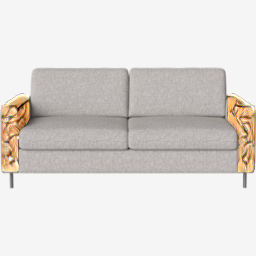
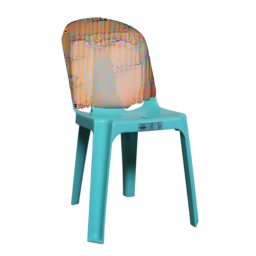
finalized region style transfer.

diff --git a/style_transfer.py b/style_transfer.py
@@ -12,15 +12,15 @@ def get_optimizer(output_img):
     return optim
 
 
+style_layers_default = ['conv_1', 'conv_2', 'conv_3', 'conv_4', 'conv_5']
 
-
-def run_style_transfer(cnn,normalization_mean, normalization_std,
+def style_transfer_gatys(cnn,normalization_mean, normalization_std,
                     content_img, style_img, output_img, EPOCHS=500,
-                    style_weight=1e6,content_weight=1,mask=None):
+                    style_weight=1e6,content_weight=1,mask=None,style_layers=style_layers_default):
     
     model, style_losses, content_losses = losses.get_model_and_losses(cnn,normalization_mean,
                                                                     normalization_std,
-                                                                    style_img,content_img,mask=mask)
+                                                                    style_img,content_img,mask=mask,style_layers=style_layers)
 
     optimizer = get_optimizer(output_img)
 
@@ -56,50 +56,4 @@ def run_style_transfer(cnn,normalization_mean, normalization_std,
     output_img.data.clamp_(0,1)
     return output_img
 
-
-# content_file = "./data/images/chairs/generic/armchair.jpeg"
-# style_file = "./data/images/chairs/cobonpue/chair-2.jpg"
-
-content_file = "./data/images/chairs/generic/armchair.jpeg"
-style_file = "./data/images/chairs/cobonpue/chair-2.jpg"
-
-IMSIZE = 256
-
-if __name__ == "__main__":
-    print("Main Driver")
-
-    # Load content image (C)
-    content_img = utils.load_image(content_file)
-    utils.show_image(content_img)
-
-    device = utils.setup_device(use_gpu = True)
-    
-    # Setup model. Use pretrained VGG-19
-    model = models.vgg19(pretrained=True).features.to(device).eval()
-
-    # Preprocess C
-
-    content = utils.image_to_tensor(content_img,IMSIZE,device=device)
-    print("Content img dimensions: ", content.size())
-    
-    # Load style image (S)
-    style_img = utils.load_image(style_file)
-    # utils.show_image(style_img)
-
-    # Preprocess S
-    style = utils.image_to_tensor(style_img,IMSIZE, device=device)
-    print("Style img dimensions: ", style.size())
-
-    # setup normalization mean and std
-    normalization_mean = torch.tensor([0.485,0.456,0.406]).to(device)
-    normalization_std = torch.tensor([0.229,0.224,0.225]).to(device)
-
-    initial = content.clone()
-
-    output = run_style_transfer(model,normalization_mean,normalization_std,
-                                content,style,initial,EPOCHS=2000)
-
-    output_img = utils.tensor_to_image(output)
-    
-    utils.show_image(output_img)
-    output_img.save('outputs/stylized_output.png')
+# def region_style_transfer(content)

diff --git a/driver.py b/driver.py
@@ -29,15 +29,12 @@ datapath = './data'
 datatype='images'
 furniture='chairs'
 
-generic='generic/sofa-2.jpeg'
+generic='generic/chair-1.jpg'
+# generic ='6.jpg'
 
 style='selected_styles'
 
-des_furn = [
-    'cobonpue/chair-2.jpg',
-    'budji_layug/chair-1.jpg',
-    'vito_selma/chair-3.jpg'
-]
+
 
 if __name__ == "__main__":
     print("Main Driver")
@@ -58,7 +55,8 @@ if __name__ == "__main__":
         _,mask_path = seg.segment_points(save_path,device=device)
         mask_img = utils.load_image(mask_path)
         mask = utils.image_to_tensor(mask_img,image_size=IMSIZE).to(device)
-        
+        # mask = mask.expand(-1,3,-1,-1)
+
         _,style_mask_path = seg.segment_points(style_path,device=device)
         style_mask_img = utils.load_image(style_mask_path)
         style_mask = utils.image_to_tensor(style_mask_img,image_size=IMSIZE).to(device)
@@ -85,10 +83,10 @@ if __name__ == "__main__":
         # setup normalization mean and std
         normalization_mean = torch.tensor([0.485,0.456,0.406]).to(device)
         normalization_std = torch.tensor([0.229,0.224,0.225]).to(device)
-
+        # style_layers = ['conv_1','conv_2','conv_3','conv_4','conv_5']
         initial = content.clone()
 
-        output = st.run_style_transfer(model,normalization_mean,normalization_std,content,style,initial,EPOCHS=1000)
+        output = st.style_transfer_gatys(model,normalization_mean,normalization_std,content,style,initial,EPOCHS=1000)
 
         save_path = 'outputs/stylized_output_{}.png'.format(i+1)
         i+=1

diff --git a/losses.py b/losses.py
@@ -83,6 +83,7 @@ def get_model_and_losses(cnn, normalization_mean, normalization_std,
         if isinstance(layer,nn.Conv2d):
             i+=1
             name = 'conv_{}'.format(i)
+
         elif isinstance(layer,nn.ReLU):
             name ='relu_{}'.format(i)
             layer=nn.ReLU(inplace=False)
@@ -100,11 +101,11 @@ def get_model_and_losses(cnn, normalization_mean, normalization_std,
         if name in content_layers:
             output = model(content_img).detach()
             # print("Content features shape: {}".format(output.shape))
-            if(mask is not None):
-                b,c,h,w = output.shape
-                for j in range(c):
-                    output[0,j] = torch.matmul(output[0,j],mask[0])
-                # output = torch.matmul(output,mask_features)
+            # if(mask is not None):
+            #     print("Mask shape: {}".format(mask.shape))
+            #     mask_features = model(mask).detach()
+            #     output = output * mask_features
+
             content_loss = ContentLoss(output)
             model.add_module('content_loss_{}'.format(i),content_loss)
             content_losses.append(content_loss)
@@ -124,6 +125,6 @@ def get_model_and_losses(cnn, normalization_mean, normalization_std,
     for i in range(len(model)-1,-1,-1):
         if isinstance(model[i],ContentLoss) or isinstance(model[i],StyleLoss):
             break
-    
+    print(model)
     model = model [:(i+1)]
     return model,style_losses,content_losses
